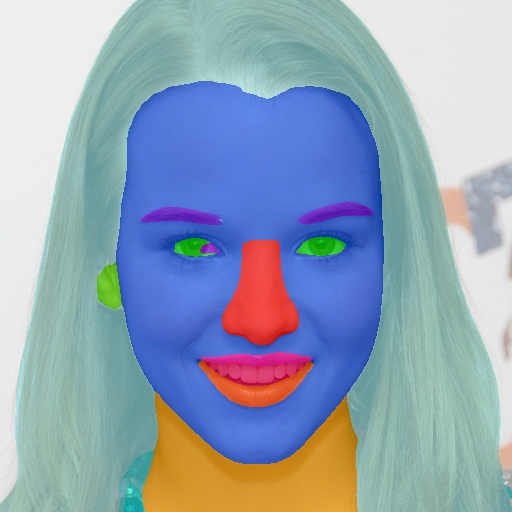
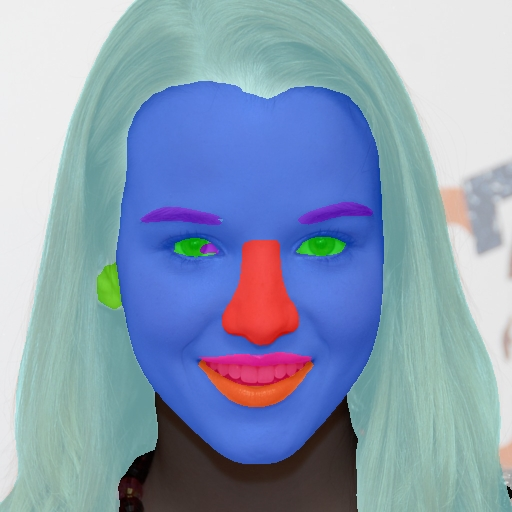
Edited test.py

Changed region(s): [[0.2188, 0.75, 0.7188, 1.0], [0.9688, 0.9375, 1.0, 0.9688]]

diff --git a/test.py b/test.py
@@ -37,11 +37,11 @@ def vis_parsing_maps(
         [85, 0, 255],
         [170, 0, 255],
         [0, 85, 255],
-        [0, 170, 255],
-        [255, 255, 0],
-        [255, 255, 85],
+        [0, 0, 0],
+        [0, 0, 0],
+        [0, 0, 0],
         [255, 255, 170],
-        [255, 0, 255],
+        [0, 0, 0],
         [255, 85, 255],
         [255, 170, 255],
         [0, 255, 255],
